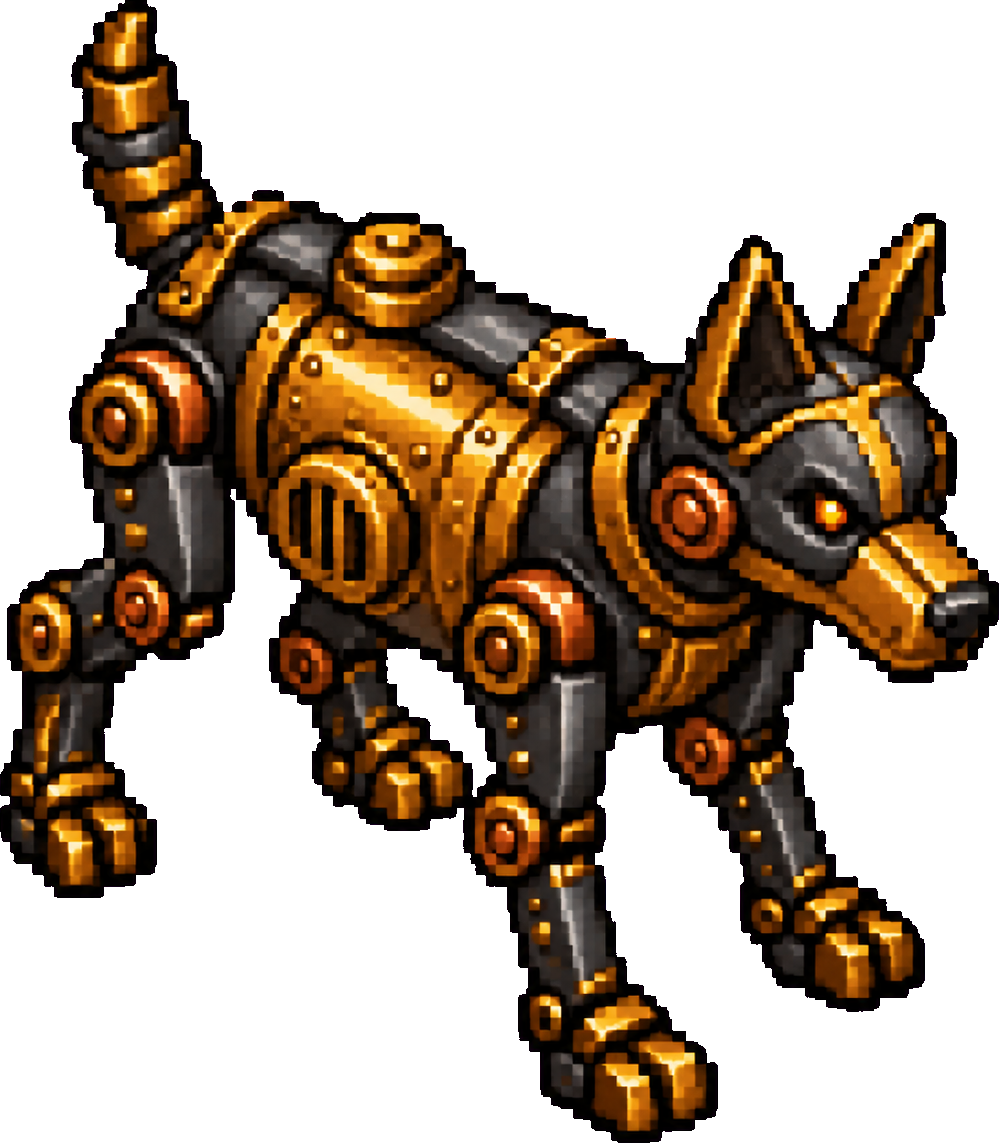
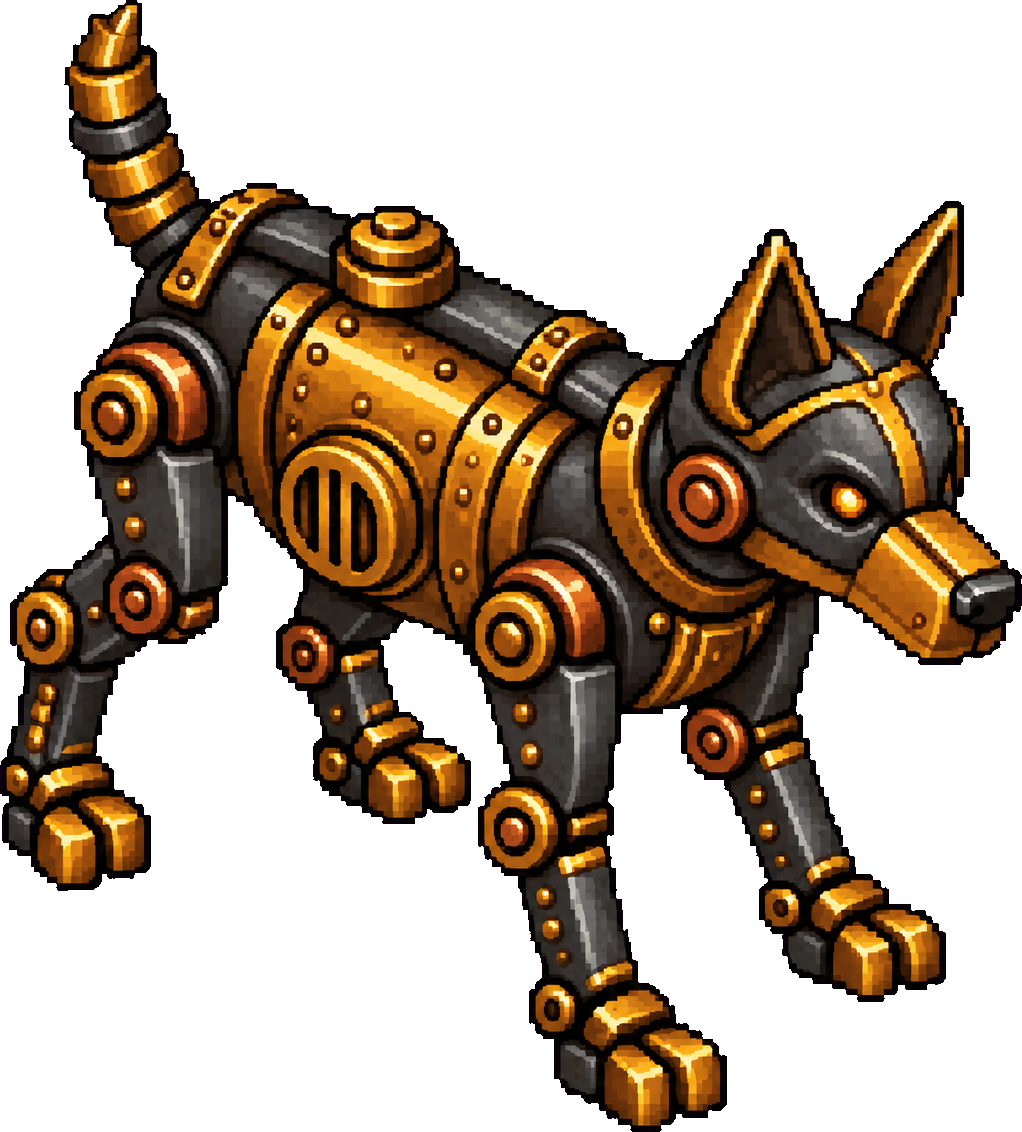
Preserve native sprite artwork and separate world presentation scale

Changed region(s): [[0.0, 0.0, 1.0, 1.0]]

diff --git a/game/assets/island/README.md b/game/assets/island/README.md
@@ -1,6 +1,45 @@
 # Island development scene
 
 Run res://scenes/world/island.tscn in the existing game project.
+
+The island now opens at 2× camera zoom centered on Michael, not the whole-map
+overview. Overview remains available with End/the overview button, and wheel
+zoom still covers 1–4×. Unit world sizes and collision footprints are unchanged:
+this gives all character sprites more screen pixels in the opening party view.
+At the configured 1280×720 window, Michael is approximately 54 screen pixels
+tall and the mechanical dog 38 pixels wide, rather than roughly 27 and 19 in
+the former overview-first opening. Exact presentation varies with window size.
+
+Source artwork must retain its full delivered resolution and colors. Do not
+add a low-resolution conversion, palette reduction, or artificial pixel-budget
+step to production preparation. Low-scale comparisons are diagnostic only,
+not the delivery standard. The user explicitly rejected that approach. The
+96-pixel/limited-palette experiments and normalized atlas are preserved as
+rejected experiments in the shared library; neither is a production source.
+Crop/alpha extraction and lossless atlas packing may organize sprites without
+resizing the artwork. Rendering scale and camera zoom remain separate from
+the stored image pixels.
+
+Michael's four standing facings now use the shared `michael-quality-review-01`
+art revision: brighter readable face/collar separation, less fragmented navy
+waistcoat and broad brass shapes. The original hat, slim young-adult identity,
+coat, sash and anatomically left-arm mechanism are retained across front/back
+facings. Root reviewed all four facings and matched-scale 39/56/80-pixel
+comparisons; the gain is clear at 56/80, while the 39-pixel view remains noisy.
+The runtime atlas retains the extracted drawings at native resolution, with
+authored frame rectangles, ground pivots and independent world-scale metadata.
+It does not resize drawings to fit the older atlas dimensions.
+Native atlas SHA256:
[1 lines of base64/hex data omitted]
+The 610×1232 atlas removes unused sheet space only; its four source rectangles
+remain 297×605, 288×608, 283×592 and 289×595 pixels, byte-for-byte equal to the
+extracted artwork. Frame `worldScale` controls the size drawn in the world,
+not an export resize. The mechanical dog likewise retains its full 1022×1132
+extracted source. Original and experimental sources remain backed up in shared art.
+One built-in art revision and one background correction were used. Raw sources,
+exact prompts and normalization are preserved in the shared folder. Standing
+art admission does not approve walking animation or imply rendered-engine QA.
+
 The scene installs five preview factions at startup: colonials, pirates,
 Cthulhu, the fox people and elves. They spend real resources on authored production.
 The original three have six-unit preview caps; the fox people have eight lighter
@@ -563,15 +602,17 @@ unfinished. The opening cache can fund the workshop and two dogs, or fewer dogs
 with salvage reserved for repairs/restoration. Destroyed completed holdings now
 supply additional salvage as described above; resource extraction remains needed.
 
-Standing art is shared `pirate-island/mechanical-dog-01/extracted/cell_00_00.png`,
[1 lines of base64/hex data omitted]
-Source 999 by 1143, pivot [500,930], runtime width 27 pixels. Root reviewed the
-full cutout and 25/27/30-pixel comparison beside a 33-pixel human and admitted
-27-pixel development standing. Ears, muzzle, four legs and integrated brass body
-read at size; fine vents merge and the tail is tall. This is not walking or
-attack animation approval. One built-in generation and one background correction
-are preserved with prompts and provenance in the shared candidate folder;
-no paid external generation was used. Shared art commit: `2999333`.
+Standing art is shared
+`pirate-island/mechanical-dog-01/quality-revision-extracted/cell_00_00.png`,
[1 lines of base64/hex data omitted]
+Source 1022 by 1132, pivot [520,925], runtime world width still 27 pixels. Root
+reviewed old and revised drawings at identical 38/54-screen-pixel widths on
+island terrain and admitted the revision: less fragmented muzzle/brass flank,
+clearer leg and vent separation. The gain is incremental; thin highlights still
+alias. This is not walking or attack animation approval. Original art from
+shared commit `2999333` is preserved, not overwritten in the library. The quality
+revision used one built-in generation and no background correction or paid
+external call; exact prompts and comparisons are in `QUALITY-REVIEW.md`.
 
 Actual island command observation (`island_campaign_review.gd`, 120 ticks,
 `workshop`): recovered 20 salvage at start, walked to [19,17], began construction
